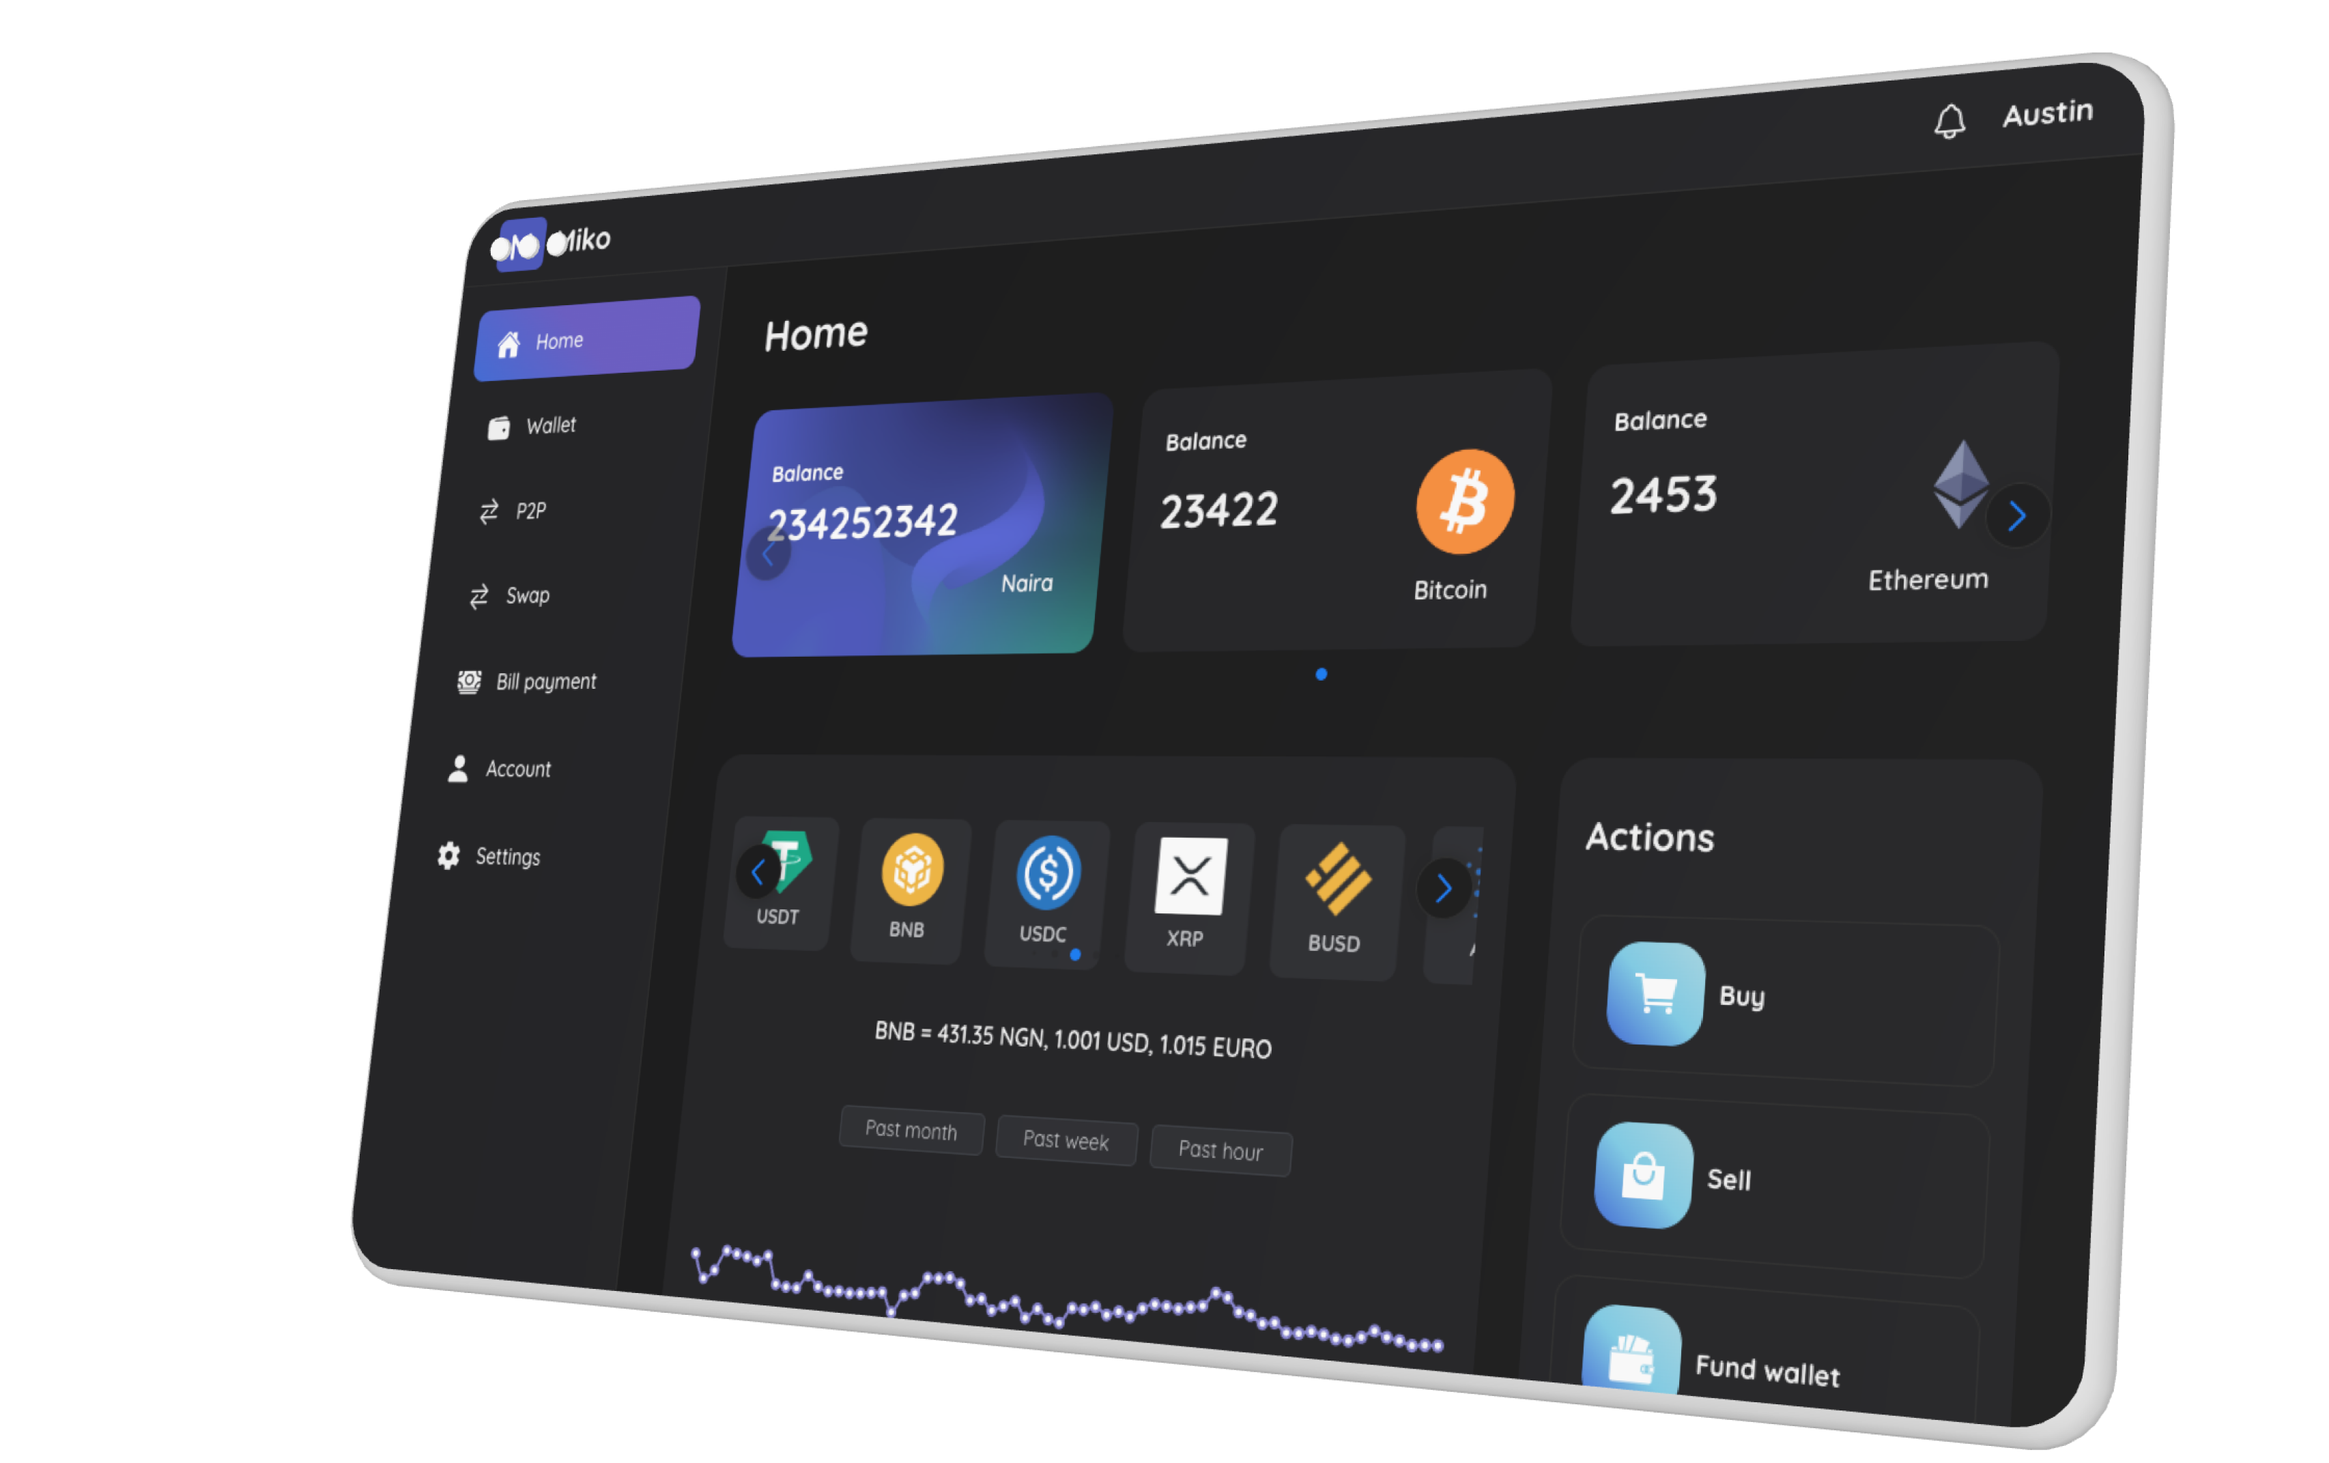
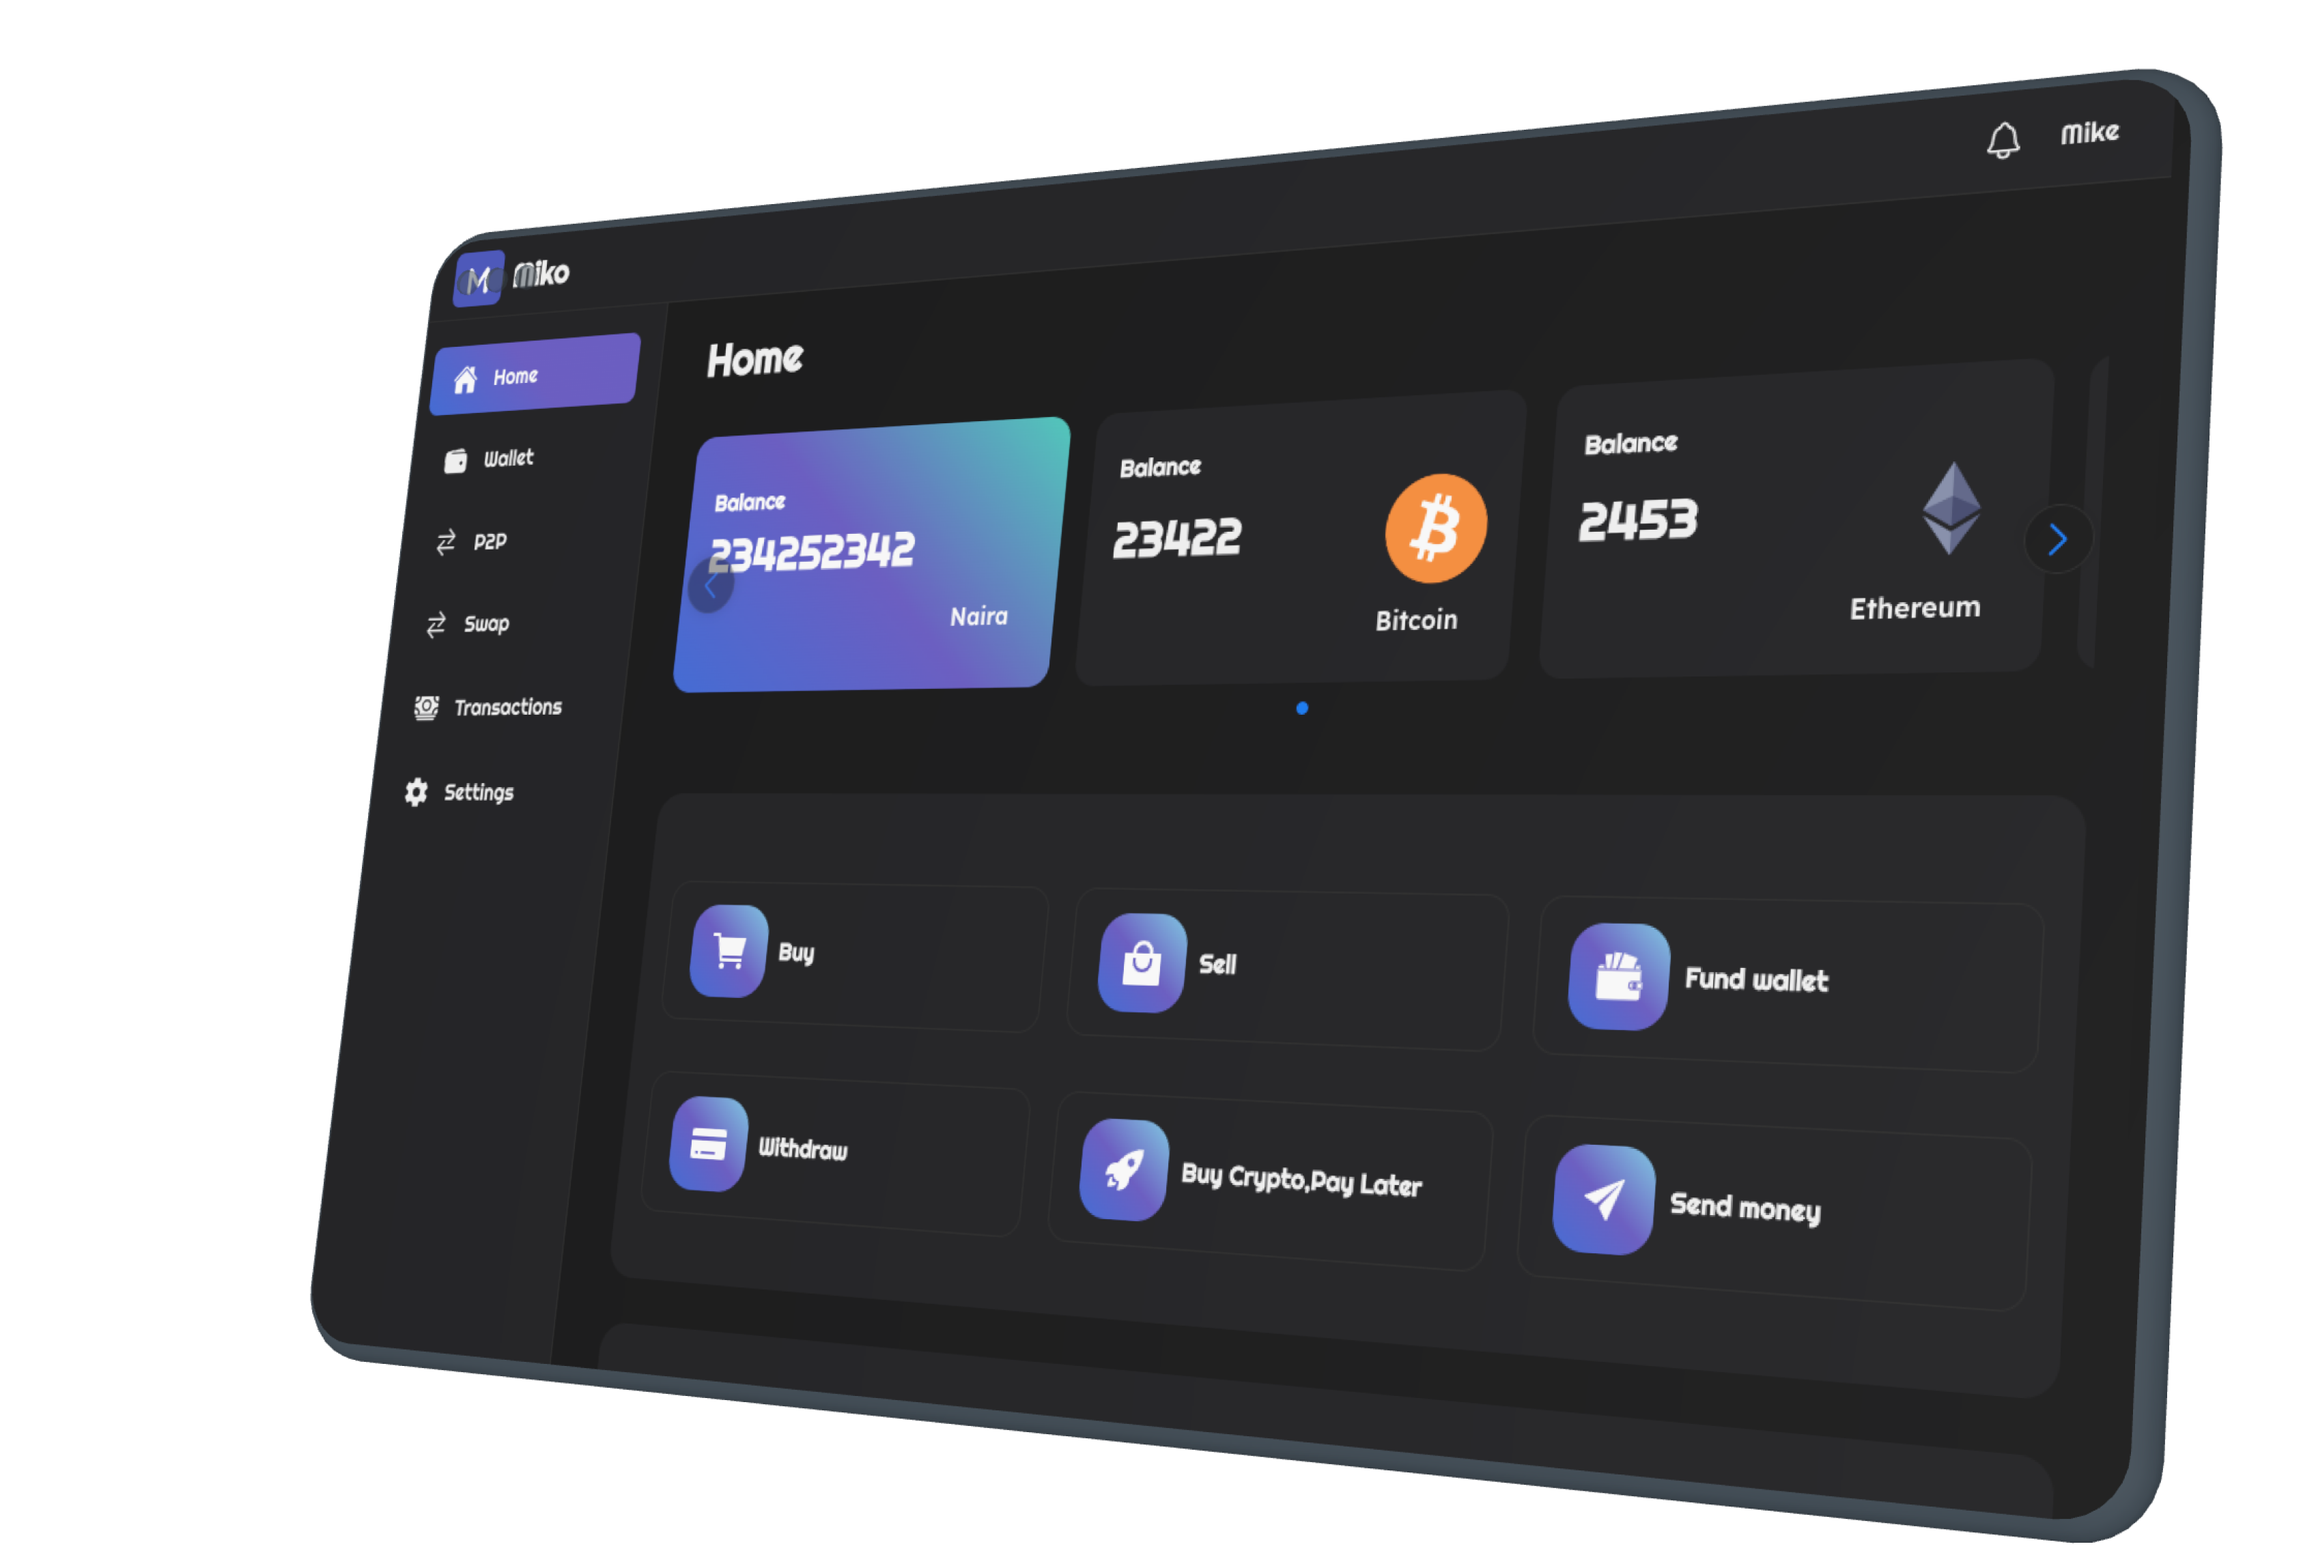
house keeping

diff --git a/src/stylesheets/Home/style.css b/src/stylesheets/Home/style.css
@@ -114,11 +114,11 @@ body {
   background-color: rgb(1, 1, 2);
   overflow: hidden;
   display: flex;
-  justify-content: space-between;
+  justify-content: center;
   align-items: center;
   flex-direction: row;
   width: 100%;
-  padding: 100px 5%;
+  padding: 100px 4%;
   position: relative;
 }
 .hero .backgroundGlass {
@@ -140,12 +140,12 @@ body {
   background-color: rgba(70, 202, 160, 0.294);
 }
 .hero .text {
-  width: 60%;
+  width: 55%;
   z-index: 2;
 }
 .hero .text h1 {
   color: white;
-  font-size: 75px;
+  font-size: 65px;
   font-weight: 900;
   line-height: 1.4;
 }
@@ -172,14 +172,15 @@ body {
 }
 .hero .img {
   z-index: 1;
-  width: 40%;
+  width: 45%;
   display: flex;
   justify-content: center;
   align-items: center;
   flex-direction: row;
 }
 .hero .img img {
-  width: 1000px;
+  width: 820px;
+  transform: translateY(50px) translateX(-50px);
 }
 
 .GettingStartedSteps {
@@ -430,7 +431,7 @@ body {
   width: 50%;
 }
 .browserView .image img {
-  width: 750px;
+  width: 700px;
 }
 
 .footer {
@@ -540,7 +541,7 @@ body {
     font-size: 60px;
   }
   .hero .img img {
-    width: 900px;
+    width: 750px;
   }
   .browserView .text h1 {
     font-size: 60px;

diff --git a/src/stylesheets/Home/style.scss b/src/stylesheets/Home/style.scss
@@ -104,9 +104,9 @@ body {
 .hero {
   background-color: rgb(1, 1, 2);
   overflow: hidden;
-  @include flexDisplay(space-between, center, row);
+  @include flexDisplay(center, center, row);
   width: 100%;
-  padding: 100px 5%;
+  padding: 100px 4%;
   position: relative;
   .backgroundGlass {
     position: absolute;
@@ -128,11 +128,11 @@ body {
     }
   }
   .text {
-    width: 60%;
+    width: 55%;
     z-index: 2;
     h1 {
       color: white;
-      font-size: 75px;
+      font-size: 65px;
       font-weight: 900;
       line-height: 1.4;
       span {
@@ -160,10 +160,11 @@ body {
   }
   .img {
     z-index: 1;
-    width: 40%;
+    width: 45%;
     @include flexDisplay(center, center, row);
     img {
-      width: 1000px;
+      width: 820px;
+      transform: translateY(50px) translateX(-50px);
     }
   }
 }
@@ -407,7 +408,7 @@ body {
     @include flexDisplay(center, center, row);
     width: 50%;
     img {
-      width: 750px;
+      width: 700px;
     }
   }
 }
@@ -507,7 +508,7 @@ body {
     }
     .img {
       img {
-        width: 900px;
+        width: 750px;
       }
     }
   }

diff --git a/src/App.js b/src/App.js
@@ -17,7 +17,6 @@ import Buy from "./pages/userDashboard/Buy";
 import Sell from "./pages/userDashboard/Sell";
 import Swap from "./pages/userDashboard/Swap";
 import FundWallet from "./pages/userDashboard/FundWallet";
-import AdminApp from "./components/admin/AdminApp";
 function App() {
   return (
     <Router>
@@ -43,10 +42,6 @@ function App() {
             <Route path="/app/wallet/buy" element={<Buy />}></Route>
             <Route path="/app/wallet/fund" element={<FundWallet />}></Route>
             <Route path="/app/wallet/sell" element={<Sell />}></Route>
-          </Route>
-
-          <Route path="/admin" element={<AdminApp />}>
-    
           </Route>
         </Routes>
       </div>

diff --git a/src/pages/userDashboard/Coin.js b/src/pages/userDashboard/Coin.js
@@ -41,7 +41,7 @@ const Coin = () => {
                     <div className='card'>
                         <img src={coinMarket.image.large} alt="" />
                         <h4>{coinMarket.name}</h4>
-                        <h3>{coinMarket.market_data.current_price.usd}</h3>
+                        <h3>{coinMarket.market_data.current_price.usd} USD</h3>
                         <SimpleGrid cols={2} mt={20}>
                             <Button radius={50} color={"major.0"}>Buy</Button>
                             <Button radius={50} color={"major.0"} variant={"outline"}>Sell</Button>

diff --git a/src/stylesheets/user/style.scss b/src/stylesheets/user/style.scss
@@ -16,14 +16,14 @@
   --hoverEffect1: ghostwhite;
 }
 
-// :root{
-//     --backGroundColor:rgb(1,1,2);
-//     --componentBackGroundColor:rgb(21, 21, 25);
-//     --lighterBorderColor:rgb(37, 37, 37);
-//     --lightBorderColor:rgb(69, 69, 69);
-//     --textColor:whitesmoke;
-//     --hoverEffect1:rgb(35, 35, 42);
-// }
+:root{
+    --backGroundColor:rgb(1,1,2);
+    --componentBackGroundColor:rgb(21, 21, 25);
+    --lighterBorderColor:rgb(37, 37, 37);
+    --lightBorderColor:rgb(69, 69, 69);
+    --textColor:whitesmoke;
+    --hoverEffect1:rgb(35, 35, 42);
+}
 
 body {
   width: 100%;

diff --git a/src/components/home/Hero.js b/src/components/home/Hero.js
@@ -1,4 +1,4 @@
-import heroImg from "../../images/heroImg.png"
+import heroImg1 from "../../images/heroImg1.png"
 const Hero = () => {
   return (
     <section className="hero">
@@ -17,7 +17,7 @@ const Hero = () => {
             <button>Get started</button>
        </div>
        <div className="img">
-        <img src={heroImg} alt="" />
+        <img src={heroImg1} alt="" />
        </div>
     </section>
   )

diff --git a/src/stylesheets/user/style.css b/src/stylesheets/user/style.css
@@ -16,6 +16,15 @@
   --hoverEffect1: ghostwhite;
 }
 
+:root {
+  --backGroundColor:rgb(1,1,2);
+  --componentBackGroundColor:rgb(21, 21, 25);
+  --lighterBorderColor:rgb(37, 37, 37);
+  --lightBorderColor:rgb(69, 69, 69);
+  --textColor:whitesmoke;
+  --hoverEffect1:rgb(35, 35, 42);
+}
+
 body {
   width: 100%;
   height: 100%;

diff --git a/src/components/user/UserApp.js b/src/components/user/UserApp.js
@@ -34,7 +34,7 @@ const UserApp = () => {
     <MantineProvider
       theme={
         {
-          colorScheme: "light",
+          colorScheme: "dark",
           colors: {
             major: ["#464fca", "#464fca", "#464fca"]
           },

diff --git a/src/components/user/TopBar.js b/src/components/user/TopBar.js
@@ -10,7 +10,7 @@ const TopBar = ({name}) => {
       </A>
       <div className="nameAndNotification">
         <IoNotificationsOutline />
-        <p>{name}</p>
+        <p>{"Mike"}</p>
       </div>
 
       
